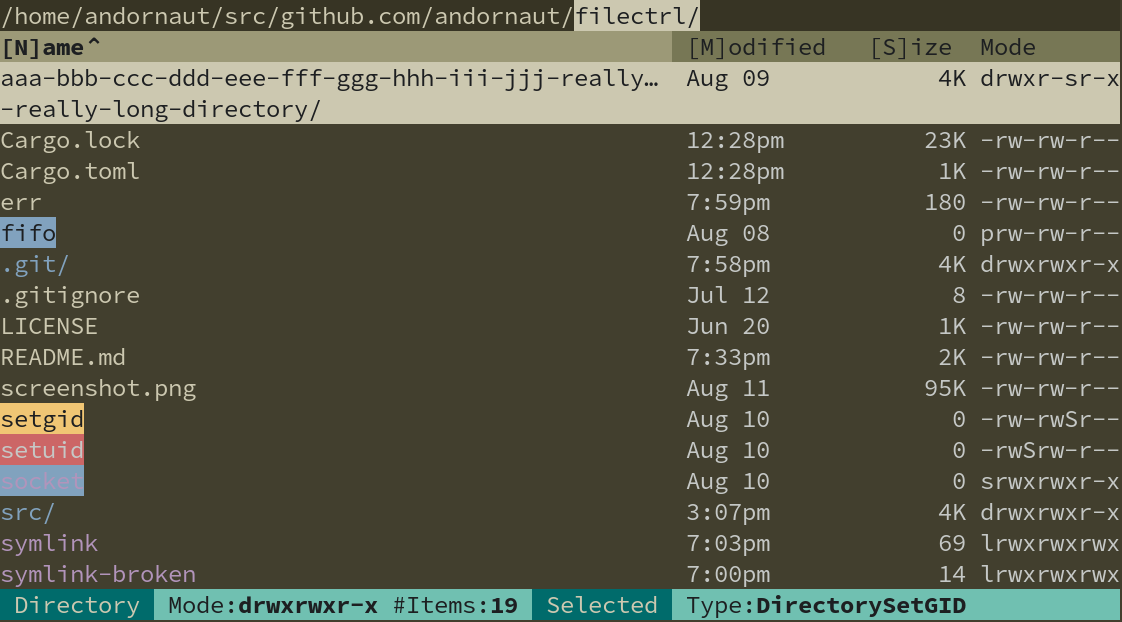
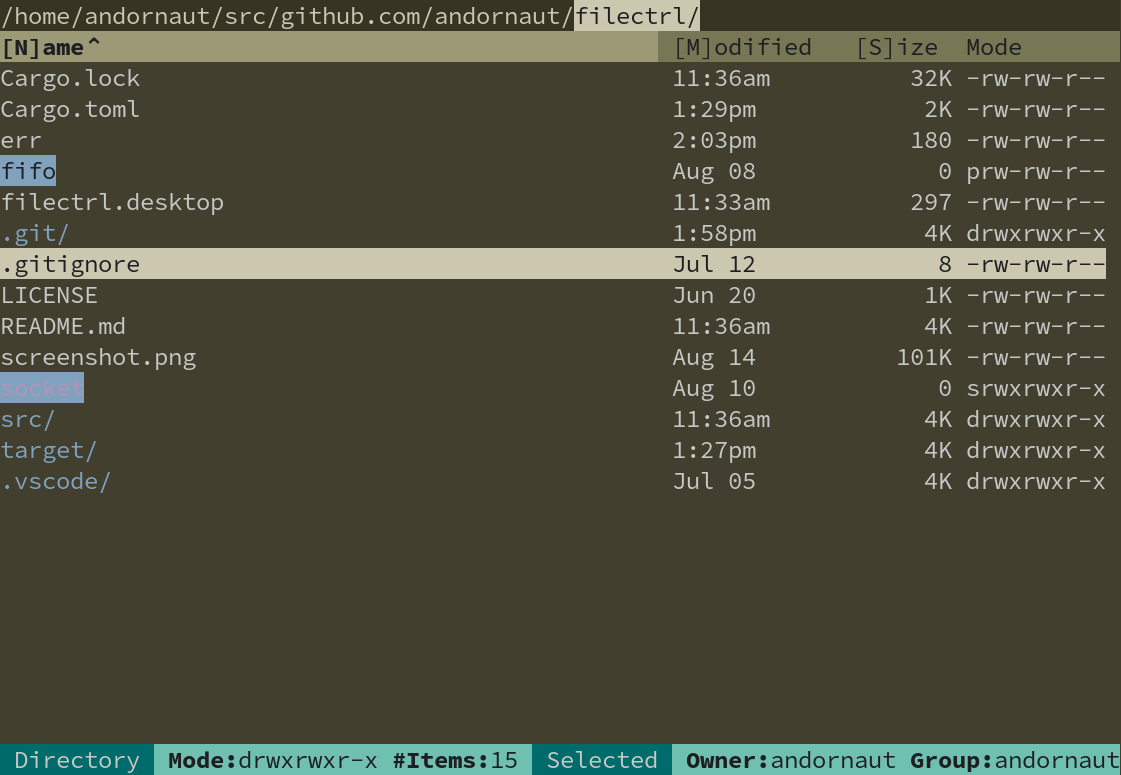
Implement doubleclick

Changed region(s): [[0.0, 0.0, 0.9991, 0.8859], [0.0, 0.9164, 0.9991, 1.0], [0.843, 0.7637, 0.9991, 0.8859]]

diff --git a/src/views/header.rs b/src/views/header.rs
@@ -4,6 +4,7 @@ use crate::{
     command::{handler::CommandHandler, mode::InputMode, result::CommandResult, Command},
     file_system::human::HumanPath,
 };
+use crossterm::event::{MouseButton, MouseEvent, MouseEventKind};
 use ratatui::{
     backend::Backend,
     layout::Rect,
@@ -16,25 +17,37 @@ use std::path::MAIN_SEPARATOR;
 
 #[derive(Default)]
 pub(super) struct HeaderView {
-    directory: HumanPath,
-    last_rendered_rect: Rect,
+    breadcrumbs: Vec<String>,
+    rect: Rect,
+    positions: Vec<Vec<Position>>,
 }
 
 impl HeaderView {
     pub(super) fn height(&self, parent_rect: Rect) -> u16 {
         // If the `rect.width` hasn't changed, then use the cached height to avoid some work.
         let width = parent_rect.width as u16;
-        if self.last_rendered_rect.width == width {
-            self.last_rendered_rect.height
-        } else {
-            let style = Style::default();
-            spans(&self.directory.breadcrumbs(), width, style, style).len() as u16
-        }
+        let style = Style::default();
+        let (container, _) = spans(&self.breadcrumbs, width, style, style);
+        container.len() as u16
     }
 
     fn set_directory(&mut self, directory: HumanPath) -> CommandResult {
-        self.directory = directory;
+        self.breadcrumbs = directory.breadcrumbs();
         CommandResult::none()
+    }
+
+    fn to_path(&self, end_index: usize) -> Option<HumanPath> {
+        if let Some(components) = self.breadcrumbs.get(0..=end_index) {
+            let path = if components.len() == 1 {
+                // Clicked on the root element, which is empty string
+                MAIN_SEPARATOR.to_string()
+            } else {
+                components.join(&MAIN_SEPARATOR.to_string())
+            };
+            HumanPath::try_from(path).ok()
+        } else {
+            None
+        }
     }
 }
 
@@ -46,45 +59,82 @@ impl CommandHandler for HeaderView {
         }
     }
 
+    fn handle_mouse(&mut self, event: &MouseEvent) -> CommandResult {
+        match event.kind {
+            MouseEventKind::Down(MouseButton::Left) => {
+                let x = event.column.saturating_sub(self.rect.x);
+                let y = event.row.saturating_sub(self.rect.y);
+                let row = &self.positions[y as usize];
+                let clicked_index = row.iter().find_map(|p| {
+                    if p.intersects(x) {
+                        Some(p.index())
+                    } else {
+                        None
+                    }
+                });
+                if let Some(path) = clicked_index.map(|i| self.to_path(i)).flatten() {
+                    Command::Open(path).into()
+                } else {
+                    CommandResult::none()
+                }
+            }
+            _ => CommandResult::none(),
+        }
+    }
     fn should_receive_mouse(&self, column: u16, row: u16) -> bool {
         let point = Rect::new(column, row, 1, 1);
-        self.last_rendered_rect.intersects(point)
+        self.rect.intersects(point)
     }
 }
 
 impl<B: Backend> View<B> for HeaderView {
     fn render(&mut self, frame: &mut Frame<B>, rect: Rect, _: &InputMode, theme: &Theme) {
-        self.last_rendered_rect = rect;
+        self.rect = rect;
 
         let active_style = theme.header_active();
         let inactive_style = theme.header();
-        let breadcrumbs = self.directory.breadcrumbs();
-        let text: Vec<_> = spans(
-            &breadcrumbs,
-            self.last_rendered_rect.width,
+        let (container, positions) = spans(
+            &self.breadcrumbs,
+            self.rect.width,
             active_style,
             inactive_style,
-        )
-        .into_iter()
-        .map(|spans| Line::from(spans))
-        .collect();
+        );
+        self.positions = positions;
+        let text: Vec<_> = container
+            .into_iter()
+            .map(|spans| Line::from(spans))
+            .collect();
 
         let paragraph = Paragraph::new(text).style(theme.header());
-        frame.render_widget(paragraph, self.last_rendered_rect);
+        frame.render_widget(paragraph, self.rect);
     }
 }
 
+#[derive(Debug)]
+struct Position(u16, usize); // end x, index
+
+impl Position {
+    pub(super) fn intersects(&self, x: u16) -> bool {
+        x <= self.0
+    }
+
+    pub(super) fn index(&self) -> usize {
+        self.1
+    }
+}
 fn spans<'a>(
     breadcrumbs: &[String],
     width: u16,
     active_style: Style,
     inactive_style: Style,
-) -> Vec<Vec<Span<'a>>> {
+) -> (Vec<Vec<Span<'a>>>, Vec<Vec<Position>>) {
     let mut container = vec![Vec::new()];
-    let mut line_len = 0;
-    let mut it = breadcrumbs.into_iter().peekable();
+    let mut row_len = 0;
+    let mut it = breadcrumbs.into_iter().enumerate().peekable();
 
-    while let Some(name) = it.next() {
+    let mut positions: Vec<Vec<Position>> = vec![Vec::new()];
+
+    while let Some((i, name)) = it.next() {
         let name = format!("{}{MAIN_SEPARATOR}", name);
         let is_last = it.peek().is_none();
         let style = if is_last {
@@ -94,15 +144,19 @@ fn spans<'a>(
         };
 
         let name_len = len_utf8(&name);
-        line_len += name_len;
-        if line_len > width {
-            // New line
+        row_len += name_len;
+        if row_len > width {
+            // Move to the next row
             container.push(Vec::new());
-            line_len = name_len;
+            row_len = name_len;
+            positions.push(Vec::new());
         }
 
-        let line = &mut container.last_mut().unwrap();
-        line.push(Span::styled(name, style));
+        let container_row = &mut container.last_mut().unwrap();
+        container_row.push(Span::styled(name, style));
+
+        let positions_row = &mut positions.last_mut().unwrap();
+        positions_row.push(Position(row_len - 1, i));
     }
-    container
+    (container, positions)
 }

diff --git a/src/views/table.rs b/src/views/table.rs
@@ -3,6 +3,8 @@ mod render;
 mod sort;
 mod style;
 
+use std::time::Instant;
+
 use self::{
     navigate::navigate,
     render::{header, row, scrollbar},
@@ -21,12 +23,10 @@ use ratatui::{
     backend::Backend,
     layout::Rect,
     prelude::{Constraint, Direction, Layout},
-    style::Stylize,
-    symbols::scrollbar::VERTICAL,
-    widgets::{Block, Scrollbar, ScrollbarOrientation, ScrollbarState, Table, TableState},
+    widgets::{Block, ScrollbarState, Table, TableState},
     Frame,
 };
-
+const DOUBLE_CLICK_MS: u128 = 500;
 const NAME_MIN_LEN: u16 = 39;
 const MODE_LEN: u16 = 10;
 const MODIFIED_LEN: u16 = 12;
@@ -48,6 +48,8 @@ pub(super) struct TableView {
     table_visual_rows: Vec<usize>,
     table_rect: Rect,
     table_state: TableState,
+
+    double_click_start: Option<Instant>,
 }
 
 impl TableView {
@@ -74,8 +76,23 @@ impl TableView {
         }
 
         let i = self.table_visual_rows[y as usize];
+        let previously_selected = self.table_state.selected();
+        let previous_double_click_start = self.double_click_start;
         eprintln!("Table.handle_click_table() y:{y} i:{i}");
+
         self.table_state.select(Some(i));
+        self.double_click_start = Some(Instant::now());
+        if let Some(selected_index) = previously_selected {
+            if i == selected_index {
+                // Maybe double-clicked
+                if let Some(start) = previous_double_click_start {
+                    if start.elapsed().as_millis() < DOUBLE_CLICK_MS {
+                        eprintln!("Double clicked on {i}");
+                        return self.open_selected();
+                    }
+                }
+            }
+        }
         Command::SetSelected(Some(self.selected().unwrap().clone())).into()
     }
 
@@ -89,6 +106,8 @@ impl TableView {
             .selected()
             .map_or(0, |i| navigate(len, i, delta));
         self.table_state.select(Some(i));
+
+        self.double_click_start = None;
         Command::SetSelected(Some(self.selected().unwrap().clone())).into()
     }
 
@@ -171,6 +190,7 @@ impl TableView {
 
     fn unselect(&mut self) -> CommandResult {
         self.table_state.select(None);
+        self.double_click_start = None;
         Command::SetSelected(None).into()
     }
 }
@@ -181,6 +201,7 @@ impl CommandHandler for TableView {
             Command::SetDirectory(directory, children) => {
                 self.set_directory(directory.clone(), children.clone())
             }
+            // self.handle_key() and PromptView may emit SetFilter()
             Command::SetFilter(filter) => self.set_filter(filter.clone()),
             _ => CommandResult::NotHandled,
         }
@@ -189,7 +210,7 @@ impl CommandHandler for TableView {
     fn handle_key(&mut self, code: &KeyCode, modifiers: &KeyModifiers) -> CommandResult {
         match (*code, *modifiers) {
             (KeyCode::Esc, _) | (KeyCode::Char('c'), KeyModifiers::CONTROL) => {
-                self.set_filter("".into()).into()
+                Command::SetFilter("".into()).into()
             }
             (_, _) => match code {
                 KeyCode::Delete => self.delete(),
@@ -278,7 +299,7 @@ impl<B: Backend> View<B> for TableView {
             .widths(&column_constraints);
         frame.render_stateful_widget(table, self.table_rect, &mut self.table_state);
 
-        let content_length = self.table_visual_rows.len() as u16;
+        let content_length = self.directory_items.len() as u16;
         if content_length > self.scrollbar_rect.height {
             self.scrollbar_state = self.scrollbar_state.content_length(content_length);
             self.scrollbar_state = self

diff --git a/src/views/root.rs b/src/views/root.rs
@@ -4,9 +4,8 @@ use super::{
 };
 use crate::{
     app::theme::Theme,
-    command::{handler::CommandHandler, mode::InputMode, result::CommandResult},
+    command::{handler::CommandHandler, mode::InputMode},
 };
-use crossterm::event::MouseEvent;
 use ratatui::{
     backend::Backend,
     layout::{Constraint, Direction, Layout, Rect},